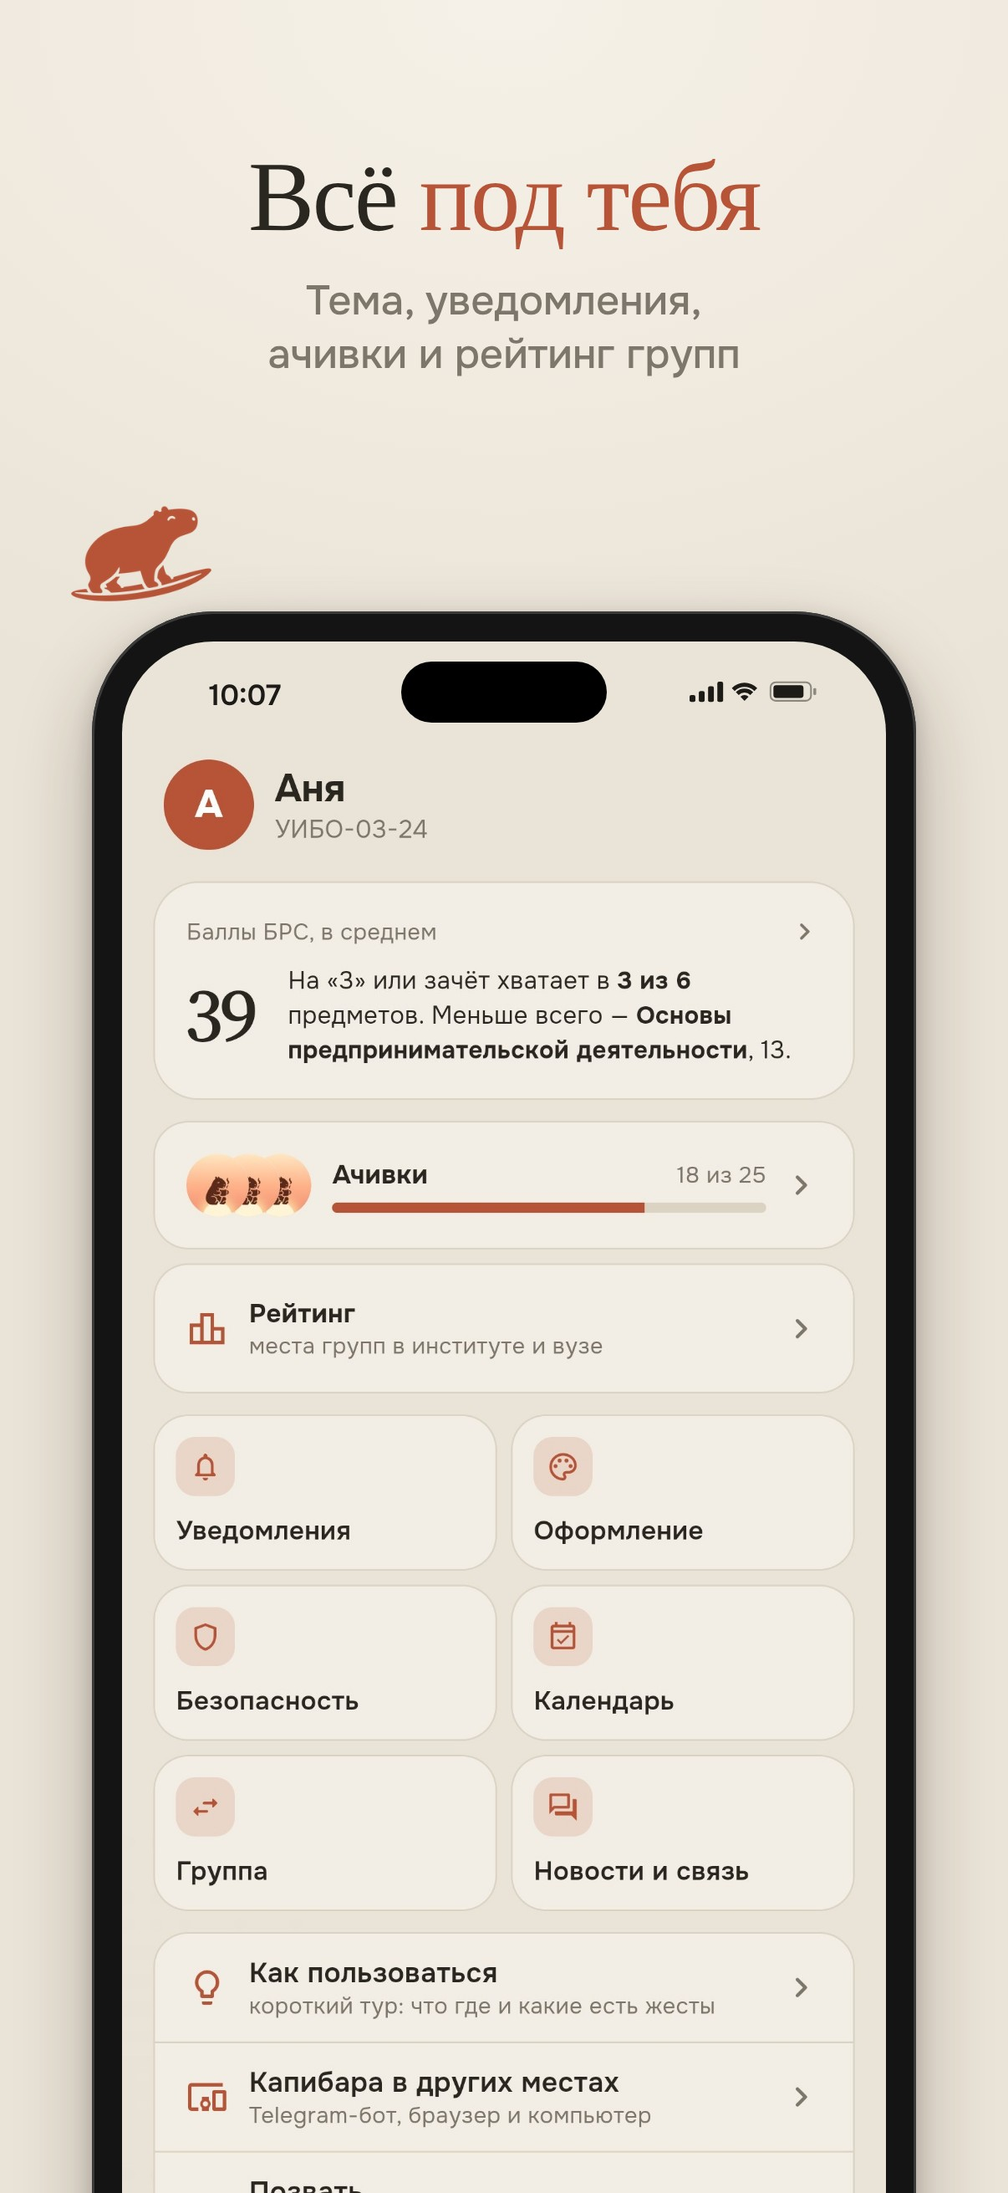
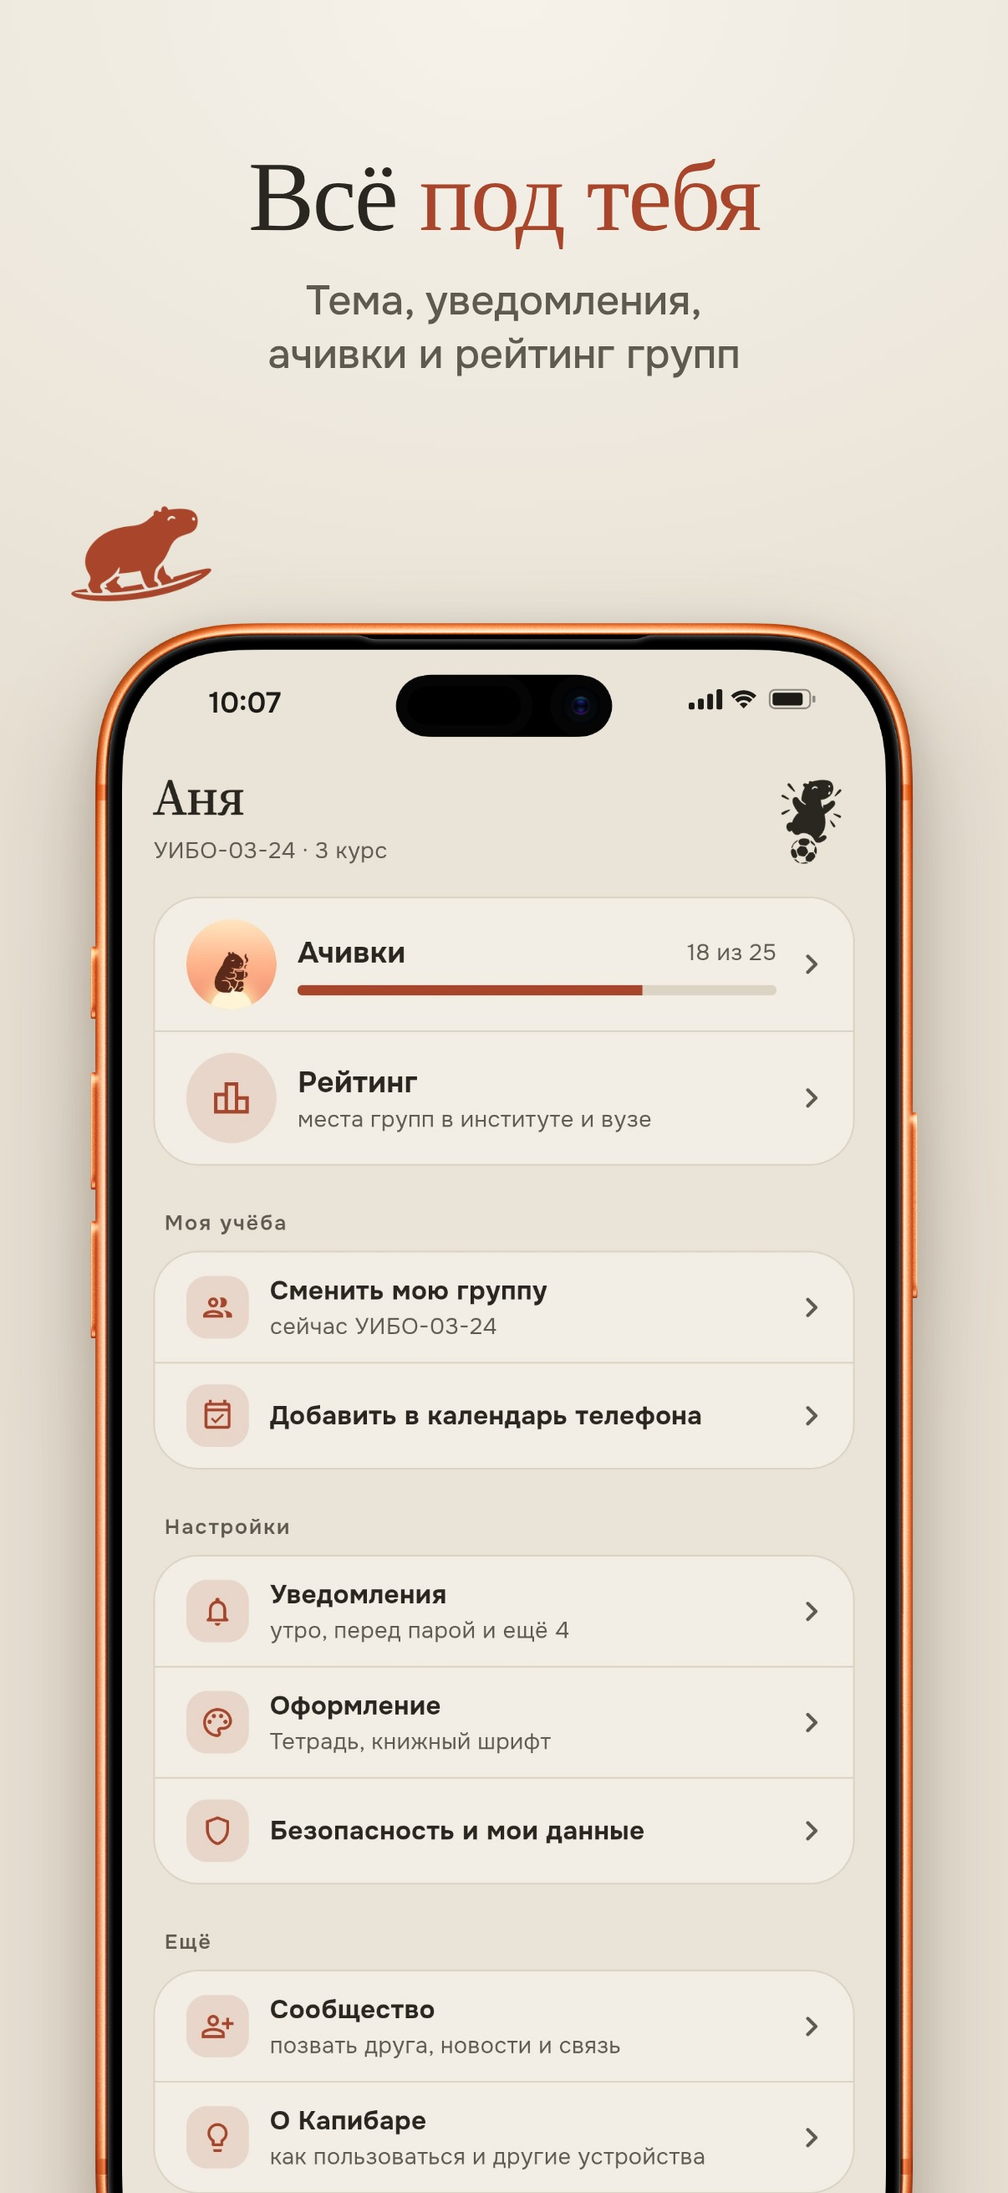
Версия 6.1.0 «Рихман»: выпуск 2.0.1 в сторы, новые скрины, шапка и «Что нового»
Заметки changelog.d/next собраны в changelog.d/6.1.0.md, имя Рихман добавлено в FIGURES,
скрины 6,9″, 6,3″ и RuStore пересняты с main (семь штук, оранжевый айфон),
шапка App Store 5244×2950 и 3840×1646 с текстом в безопасной зоне.

diff --git a/tools/changelog.py b/tools/changelog.py
@@ -291,6 +291,7 @@ FIGURES = {
     "Кустодиев": "живопись: краски, светлая и тёмная тема, оформление",
     "Кандинский": "художник, новый облик: рисунок «Мел» — основная иконка Капибары везде",
     "Бакст": "Лев Бакст, художник-оформитель «Русских сезонов», одевал спектакли в новые костюмы: Капибара надела «Тетрадь» — новый дизайн стал основным видом",
+    "Рихман": "Георг Рихман, физик Петербургской академии, одним из первых измерял атмосферное электричество и погоду приборами: совет «куртка не помешает» учитывает грозу, град, туман и ветер",
     "Ушинский": "педагог: научить пользоваться — подсказки при первом запуске",
     "Макаренко": "педагог, учил через коллектив: на лекции ты не один — видно весь поток",
     "Горчаков": "дипломат-посредник: прокси и связь через границу",

diff --git a/changelog.d/6.1.0.md b/changelog.d/6.1.0.md
@@ -1,0 +1,25 @@
+### v6.1.0 «Рихман»
+- Выпуск 2.0.1 для App Store и RuStore: погода точнее, карточка задания со сдачей прямо в приложении, Пульс МИРЭА для всех, «Учёба» с крупным кружком баллов, рейтинг с мягким напоминанием и новая Капибара в группе.
+Погода: совет в уведомлениях и на главной («куртка не помешает») теперь зависит от ощущаемой температуры, осадков, грозы, града, тумана и ветра. Фразы короткие и без смайликов, их около девяноста, в том числе для аномального мороза и жары; на каждый день своя.
+- Группа: выбрать свою группу и видеть её файлы, ДЗ, заметки и реакции теперь может любой, кто выбрал её в приложении или боте. Проверку «Капибара запомнила тех, кто в Telegram-чате группы» убрали; участник чата по-прежнему получает тариф своей группы, даже выбрав другую.
+- Рейтинг: напоминаем показаться, но ничего не включаем сами. На экране «Рейтинг», пока тебя не видно, карточка «Показать / Не сейчас / Больше не предлагать»; при входе — лист с двумя выключенными тумблерами «Группе» и «Всем» (первый раз через пару часов, потом не чаще раза в 14 дней, не больше трёх). А ещё по поводу — группа поднялась или набрал опыт за неделю — одно предложение пушем, не чаще раза в месяц и не в тихие часы.
+- Чистка кода: широких перехватов ошибок 48 → 25, «молчаливых» 8 → 0. Ожидаемые сбои (сеть, СДО, битый файл) — как раньше, а ошибки в нашем коде больше не прячутся за «Не вышло»: видны в /status с подробностями.
+- Чистка кода: три больших файла разбиты по смыслу без изменения логики — страницы /aitest (bench_pages.py), вход в приложение через бота (start_login.py), рисование картинок расписания (card_draw.py).
+- 152-ФЗ, сверка кода и текстов: согласие версии 6 и политика 6. Пульс отмечен «отдельной галочкой», для СДО названа сдача работ, описано, что видит группа (комментарии, ник или «Имя Ф.» в рейтинге, задания при «Делиться»), копия базы в Telegram названа среди того, что уходит за границу. В политике добавлены журналы сервера и то, что хранится на устройстве. После выкладки согласие один раз спросят у всех.
+- Кто попросил удалить данные, до полного удаления не виден группе в рейтинге. API больше не отдаёт группе чужие id авторов заметок и сроков. Оплаты удаляются через 5 лет, как обещают политика и оферта.
+- Вход через VK ID, Яндекс ID и Apple: имя попадает в профиль только после согласия.
+- Admin-команды закрыты для всех, если `STAROSTA_ID` не задан (раньше были открыты всем). Убрана пустая таблица `group_members`.
+- Капибара в группе: если староста тегает бота, а тот не может ответить, он пишет причину (нет ключа или чат не запомнен); `/groupchat` в чате запоминает его как чат группы. Ответ на тег не ждёт дольше ~50 секунд.
+- Капибара в группе: команда `/ask вопрос` (то же, что тег). Сообщение, которое начинается с `@UiboshkiBot`, у бота с inline-режимом Telegram превращает в inline-запрос, и отправить его нельзя; теперь можно `/ask`, тег в конце или ответ на сообщение бота. В чате своей группы бот отвечает и тем, кто не давал согласие на обработку данных (уходит только текст вопроса), и без паузы между вопросами; предел — 300 ответов в сутки.
+- Капибара в группе: отвечает по существу и на общие вопросы (если уверена), не путает их с вопросом про оплату; убрана медленная модель lightning, «печатает…» сразу после вопроса, в лог пишется, за сколько секунд ответила модель и доходят ли обращения до бота (группа: пришло …).
+- Пульс МИРЭА для всех (в приложении): «Ещё → Пульс МИРЭА» — что он даёт, вход обычной страницей МИРЭА с галочкой согласия, статус и «Отключить». Подключён — посещения лекций в «Цели» ровно как в Пульсе. Кружок QR на «Сегодня» теперь у всех: не входил в Пульс — сперва вход, потом сразу сканер. На «Учёбе» под «баллы из СДО» — «посещения точнее · подключить Пульс», в листе «Посещения» — «Брать посещения из Пульса». `PULSE=0` возвращает всё только старосте.
+- Карточка задания (новый вид): нажал на срок в «Сдать» или на работу в «Учёбе» — открывается полноценная страница, как в СДО, только понятнее. Сколько осталось крупно и полоска от «открыто с» до срока, обе даты, шкала баллов с максимумом и проходным, состояние ответа и оценки, когда меняли ответ, задание и файлы преподавателя.
+- Сдать можно прямо на странице: прикрепляешь файлы и сразу видишь, подходят ли они, пишешь комментарий преподавателю и жмёшь «Отправить». Ответ уже есть — «Заменить файлы» и «Удалить ответ».
+- Комментарии к ответу, как в СДО: видно переписку с преподавателем по работе и можно написать ему прямо из приложения.
+- «Напомнить», «Отметить сданным», «Изменить» и «Удалить» у срока теперь тоже на этой странице. В «Классике» всё по-прежнему.
+- Кружок QR на «Сегодня» стал крупнее, 56 вместо 40: по нему легче попасть пальцем. Тени больше нет, вокруг тонкий вырез цвета фона, поэтому над карточкой видно, что кружок лежит сверху.
+- Кружок стоит ровно по правому краю меню. Список «Сегодня», докрученный до конца, теперь кончается выше кружка, и последняя карточка не прячется под ним.
+- «обновлено сегодня в 10:00» в шапке «Учёбы» больше не рвётся на две строки на узком экране.
+- «Учёба»: кружок с баллами чуть больше, 50 вместо 46. «18,5» и другие дробные баллы больше не касаются края, даже с крупным шрифтом в настройках телефона.
+- Под названием предмета в «Учёбе» теперь одна строка: «Работ зачтено 2 из 6». «до зачёта ещё…» и «итог — 2» оттуда убраны.
+- Двойку и «Не зачтено», которые СДО посреди семестра считает из текущих баллов, Капибара больше не выдаёт за итог: на экране предмета вместо зелёного «итог — 2» снова «ещё 14,6 до «3»». Это правка сервера, поэтому работает и в уже вышедшей 2.0.0.

diff --git a/docs/store/whats-new-2.0.1.md b/docs/store/whats-new-2.0.1.md
@@ -1,0 +1,10 @@
+Капибара подтянула лапки и стала удобнее.
+
+• Погода по-настоящему: совет «куртка не помешает» теперь учитывает ощущаемую температуру, дождь, грозу, град, туман и ветер.
+• «Сдать»: нажми на срок, и откроется страница задания, как в СДО, только понятнее. Файлы, комментарий преподавателю и кнопка «Отправить» прямо там.
+• «Учёба»: кружок с баллами стал крупнее и не наползает на цифры, под предметом только «Работ зачтено».
+• Пульс МИРЭА для всех: «Ещё → Пульс МИРЭА». Вход обычной страницей МИРЭА, отключить можно в любой момент.
+• Рейтинг мягко напомнит показаться, но сам ничего не включит.
+• Капибара в группе отвечает по делу и быстрее, команда /ask работает так же, как тег.
+
+Капибара довольна. Ты тоже будешь, когда всё сдашь.

diff --git a/docs/store/whats-new-2.0.1-rustore.md b/docs/store/whats-new-2.0.1-rustore.md
@@ -1,0 +1,1 @@
+Погода точнее: совет про куртку учитывает грозу, туман и ветер. Страница задания в «Сдать» с отправкой работы и перепиской с преподавателем, как в СДО. Пульс МИРЭА для всех, крупный кружок баллов в «Учёбе», Капибара в группе отвечает быстрее и по делу.
